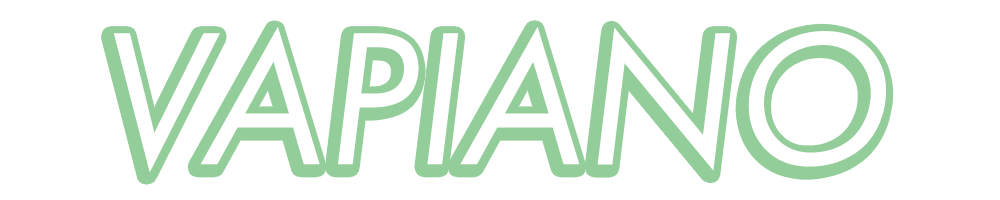
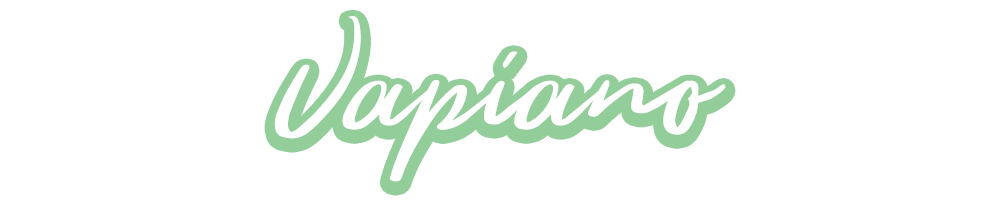
style(💅): A bit of polish here and there

Changed region(s): [[0.093, 0.03, 0.899, 0.99]]

diff --git a/front/components/Nav/Nav.jsx b/front/components/Nav/Nav.jsx
@@ -10,12 +10,31 @@ const NavContainer = styled.div`
   flex-direction: column;
   align-items: center;
   background: #e9dfcb;
+  margin-bottom: 5rem;
 `;
 
 const Buttons = styled.div`
   display: flex;
   flex-direction: row;
   align-items: center;
+  margin-bottom: -4rem;
+  z-index: 1;
+`;
+
+const ArrowContainer = styled.div`
+  display: flex;
+  justify-content: center;
+  width: 100%;
+  height: 0;
+  margin-top: -40px;
+`;
+
+const Arrow = styled.div`
+  width: 0;
+  height: 0;
+  border-left: 2500px solid transparent;
+  border-right: 2500px solid transparent;
+  border-top: 70px solid #e9dfcb;
 `;
 
 const Nav = () => (
@@ -25,6 +44,9 @@ const Nav = () => (
       <NavButton path="/study" icon="study" text="Study" />
       <NavButton path="/train" icon="train" text="Train" />
     </Buttons>
+    <ArrowContainer>
+      <Arrow />
+    </ArrowContainer>
   </NavContainer>
 );
 

diff --git a/front/components/GlobalStyle.jsx b/front/components/GlobalStyle.jsx
@@ -7,7 +7,6 @@ const GlobalStyle = createGlobalStyle`
 
   html {
     box-sizing: border-box;
-    font-family: 'Open Sans', 'Helvetica Neue', Helvetica, sans-serif;
     font-weight: 100;
     font-size: 16px;
     height: 100%;
@@ -16,6 +15,10 @@ const GlobalStyle = createGlobalStyle`
   body {
     margin: 0;
     height: 100%;
+  }
+  
+  body, h1,h2,h3,h4,h5,h6 {
+    font-family: 'Open Sans', 'Helvetica Neue', Helvetica, sans-serif;
   }
 
   #vapiano {

diff --git a/front/components/Nav/NavButton.jsx b/front/components/Nav/NavButton.jsx
@@ -16,8 +16,9 @@ const ButtonLink = styled(Link)`
   display: flex;
   align-items: center;
   flex-direction: column;
-  padding-top: 0.8rem;
+  padding-top: 1.6rem;
   text-decoration: none;
+  margin: 0 1rem;
 `;
 
 const Text = styled.div`

diff --git a/front/components/Train/Train.jsx b/front/components/Train/Train.jsx
@@ -1,3 +1,9 @@
-const Train = () => <h3>Train</h3>;
+import { Container } from 'semantic-ui-react';
+
+const Train = () => (
+  <Container>
+    <h3>Train</h3>
+  </Container>
+);
 
 export default Train;

diff --git a/front/components/Verb/Verb.jsx b/front/components/Verb/Verb.jsx
@@ -23,6 +23,7 @@ const ToggleContainer = styled.div`
   display: flex;
   flex-direction: row;
   justify-content: flex-end;
+  margin-bottom: 1rem;
 `;
 
 const CheckboxLabel = styled.p`

diff --git a/front/components/Study/Study.jsx b/front/components/Study/Study.jsx
@@ -31,7 +31,6 @@ const Study = () => {
     setFilters(value);
   };
 
-  console.log(verb?.tenses);
   return (
     <Container>
       <h3>Study</h3>

diff --git a/README.md b/README.md
@@ -1,4 +1,53 @@
+![Vapiano](https://github.com/ThamosIO/vapiano/blob/master/front/assets/vapiano.png?raw=true)
+
+# Vapiano
+
+Vapiano is a simple tool I made to study conjugation in any language.
+
+I couldn't find a tool that catered exactly to my needs, so I made it.
+
+I made it so that you can use it for any language (that uses the latin alphabet for now).
+
+## What it does
+
+Gives you the possibility to :
+
+- Study any verb (from your database) in any tense, with the ability to filter by tense
+- Train any verb in any tense (:warning: not done yet)
+
+## What you need to do
+
+First, install direnv :
+
+```bash
+# macOS
+$ brew install direnv
+
+# Debian-like
+$ apt install direnv
+```
+
+This is a Node.js / MongoDB / Preact project, so you need [npm](https://docs.npmjs.com/downloading-and-installing-node-js-and-npm) and [MongoDB](https://docs.mongodb.com/guides/server/install/) installed.
+
+Once this is done:
+
+```bash
+$ npm i
+```
+
+## Starting the project
+
+```bash
+$ npm start
+```
+
+You can now go to `http://localhost:8080`.
+
 ## Inserting data
+
+> This project works well with [this scrapper](https://github.com/ThamosIO/language-verb-scrapper).
+
+You can either insert verbs directly into the database but it will be tedious.
 
 You need to have a `json` file containing all the verbs, it should be called `scrapped-verbs.json` and be placed in the `./api/scripts` folder.
 
@@ -9,3 +58,29 @@ $ npm run insert-data
 ## Credits
 
 Icons made by Freepik from www.flaticon.com.
+
+Font used for the logo is [Wild Youth](https://www.pixelsurplus.com/freebies/wild-youth) by Jeremy Vessey.
+
+## License
+
+> MIT License
+>
+> Copyright (c) [2020][Thomas RAIMOND]
+>
+> Permission is hereby granted, free of charge, to any person obtaining a copy
+> of this software and associated documentation files (the "Software"), to deal
+> in the Software without restriction, including without limitation the rights
+> to use, copy, modify, merge, publish, distribute, sublicense, and/or sell
+> copies of the Software, and to permit persons to whom the Software is
+> furnished to do so, subject to the following conditions:
+>
+> The above copyright notice and this permission notice shall be included in all
+> copies or substantial portions of the Software.
+>
+> THE SOFTWARE IS PROVIDED "AS IS", WITHOUT WARRANTY OF ANY KIND, EXPRESS OR
+> IMPLIED, INCLUDING BUT NOT LIMITED TO THE WARRANTIES OF MERCHANTABILITY,
+> FITNESS FOR A PARTICULAR PURPOSE AND NONINFRINGEMENT. IN NO EVENT SHALL THE
+> AUTHORS OR COPYRIGHT HOLDERS BE LIABLE FOR ANY CLAIM, DAMAGES OR OTHER
+> LIABILITY, WHETHER IN AN ACTION OF CONTRACT, TORT OR OTHERWISE, ARISING FROM,
+> OUT OF OR IN CONNECTION WITH THE SOFTWARE OR THE USE OR OTHER DEALINGS IN THE
+> SOFTWARE.

diff --git a/CONTRIBUTING.md b/CONTRIBUTING.md
@@ -1,0 +1,13 @@
+# Contributing guide
+
+Help is very welcome on this project.
+
+Other than the Train & Study features, I don't have much in mind for the moment, so feel free to suggest anything.
+
+## Guidelines
+
+- Your commit must follow the [conventional commit specification](https://www.conventionalcommits.org/en/v1.0.0/).
+- Your code must be linted.
+- Your code must be tested.
+- Existing tests must pass.
+
